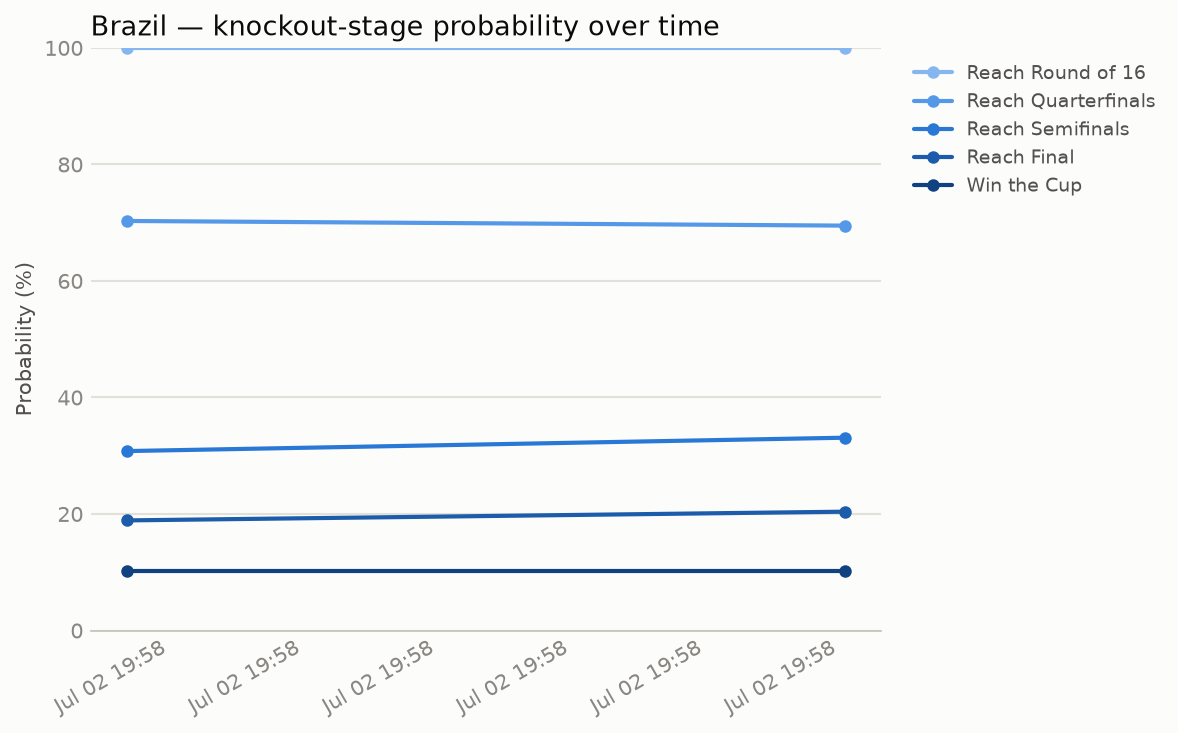
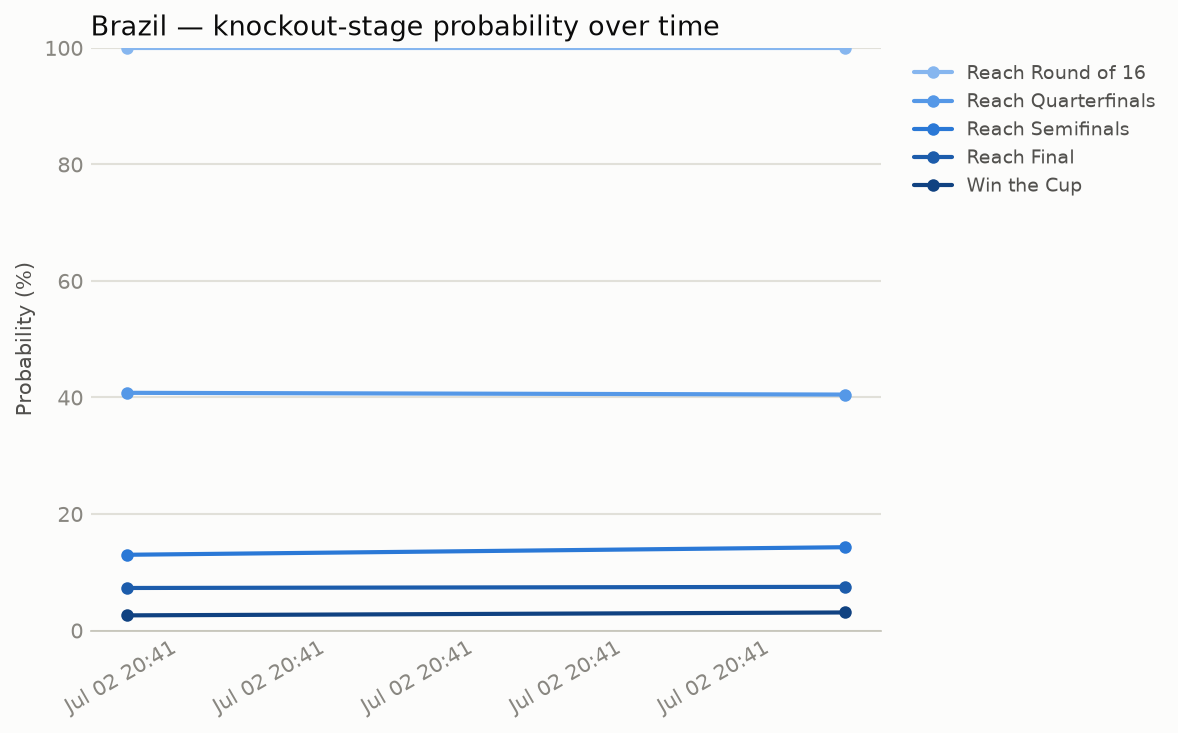
Fold 2026 World Cup qualifying matches into the rating fit
Fetches all six confederations' qualifiers from ESPN (same global team-id
namespace as the World Cup itself, so results join directly - no name
matching needed) and adds them to the Poisson attack/defense fit alongside
group-stage and knockout matches. Each match is now weighted by an
exponential recency decay (365-day half-life) rather than a flat
World-Cup-vs-qualifier split, so old qualifiers fade out gradually and
this tournament's own matches dominate as they accumulate.

This meaningfully reduces small-sample noise for teams with only a
handful of 2026 World Cup matches so far - e.g. Spain's attack rating
moves from +0.13 to +0.57 once ~2 years of qualifying form is counted,
much more in line with France's rating instead of trailing Mexico/Canada.

diff --git a/fifa_sim/espn_client.py b/fifa_sim/espn_client.py
@@ -1,7 +1,7 @@
 """Thin client around ESPN's public (unauthenticated) soccer JSON API.
 
 ESPN does not officially document this API, but it is the same endpoint
-that powers espn.com/soccer and requires no API key. We use it for three
+that powers espn.com/soccer and requires no API key. We use it for four
 things:
 
 1. Live/near-live scoreboard data (score, clock, period) for in-progress
@@ -13,17 +13,25 @@ things:
    occupying later slots are known, labeling the unresolved side
    "Round of 32 11 Winner" etc. We parse that text to build the bracket
    graph -- no hardcoded matchups anywhere in this codebase.
+4. 2026 World Cup *qualification* results, per confederation -- extra
+   history for the rating fit, especially valuable for teams that have
+   played few 2026 World Cup matches so far. ESPN uses the same global
+   team-id namespace across competitions, so a qualifier goal for team
+   "164" (Spain) joins directly onto its World Cup match rows.
 """
 from __future__ import annotations
 
+import http.client
 import json
 import time
 import urllib.error
 import urllib.request
+from concurrent.futures import ThreadPoolExecutor
 from dataclasses import dataclass, field
 from typing import Optional
 
-BASE = "https://site.api.espn.com/apis/site/v2/sports/soccer/fifa.world"
+SOCCER_BASE = "https://site.api.espn.com/apis/site/v2/sports/soccer"
+BASE = f"{SOCCER_BASE}/fifa.world"
 USER_AGENT = "Mozilla/5.0 (compatible; fifa26-knockout-model/0.1; +research use)"
 
 # FIFA World Cup 2026 calendar (fixed, published tournament schedule).
@@ -41,23 +49,49 @@ ROUND_ORDER = [
     "final",
 ]
 
+# One ESPN league slug per confederation's 2026 World Cup qualifying
+# competition. The scoreboard endpoint only returns matches within roughly a
+# one-year window per request, so each confederation is queried in yearly
+# chunks spanning its actual qualifying period (2023 through the March 2026
+# intercontinental play-offs).
+QUALIFIER_SLUGS = [
+    "fifa.worldq.uefa",
+    "fifa.worldq.conmebol",
+    "fifa.worldq.concacaf",
+    "fifa.worldq.caf",
+    "fifa.worldq.afc",
+    "fifa.worldq.ofc",
+]
+QUALIFIER_DATE_CHUNKS = [
+    "20230101-20231231",
+    "20240101-20241231",
+    "20250101-20251231",
+    "20260101-20260401",
+]
 
-def _get(url: str, timeout: float = 15.0, retries: int = 3) -> dict:
+
+def _get(url: str, timeout: float = 20.0, retries: int = 4) -> dict:
     req = urllib.request.Request(url, headers={"User-Agent": USER_AGENT})
     last_err = None
     for attempt in range(retries):
         try:
             with urllib.request.urlopen(req, timeout=timeout) as resp:
                 return json.loads(resp.read().decode("utf-8"))
-        except (urllib.error.URLError, TimeoutError, json.JSONDecodeError) as e:
+        except (
+            urllib.error.URLError,
+            TimeoutError,
+            json.JSONDecodeError,
+            http.client.HTTPException,
+            ConnectionError,
+        ) as e:
             last_err = e
             if attempt < retries - 1:
                 time.sleep(1.5 * (attempt + 1))
     raise RuntimeError(f"Failed to fetch {url}: {last_err}")
 
 
-def get_scoreboard(date_range: str) -> dict:
-    return _get(f"{BASE}/scoreboard?dates={date_range}")
+def get_scoreboard(date_range: str, base: str = BASE, limit: int = 500) -> dict:
+    return _get(f"{base}/scoreboard?dates={date_range}&limit={limit}")
 
 
 def get_all_teams() -> dict:
@@ -141,3 +175,33 @@ def fetch_knockout_events() -> list[RawEvent]:
     raw = get_scoreboard(KNOCKOUT_RANGE)
     events = parse_events(raw)
     return [e for e in events if e.round_slug in ROUND_ORDER]
+
+
+def fetch_qualifier_events() -> list[RawEvent]:
+    """All 2026 World Cup qualifying matches across every confederation.
+
+    Fetched concurrently (24 small requests: 6 confederations x 4 yearly
+    windows) and deduplicated by event id, since a match can appear in more
+    than one chunk near a year boundary.
+    """
+    jobs = [
+        (slug, chunk)
+        for slug in QUALIFIER_SLUGS
+        for chunk in QUALIFIER_DATE_CHUNKS
+    ]
+
+    def _fetch_one(job):
+        slug, chunk = job
+        base = f"{SOCCER_BASE}/{slug}"
+        try:
+            raw = get_scoreboard(chunk, base=base)
+        except RuntimeError:
+            return []
+        return parse_events(raw)
+
+    events_by_id: dict[int, RawEvent] = {}
+    with ThreadPoolExecutor(max_workers=4) as pool:
+        for events in pool.map(_fetch_one, jobs):
+            for e in events:
+                events_by_id[e.event_id] = e
+    return list(events_by_id.values())

diff --git a/fifa_sim/ratings.py b/fifa_sim/ratings.py
@@ -1,8 +1,9 @@
 """Fits a Maher/Dixon-Coles-style Poisson attack/defense rating for every
-team from the 2026 World Cup matches played so far (group stage + any
-completed knockout matches). This is the "estimate a model from up-to-date
-data" piece: everything here is derived from ESPN's own match results,
-re-fit every time the CLI runs, so ratings drift as new results come in.
+team from every 2026 World Cup *qualifying* match plus the 2026 World Cup
+matches played so far (group stage + any completed knockout matches). This
+is the "estimate a model from up-to-date data" piece: everything here is
+derived from ESPN's own match results, re-fit every time the CLI runs, so
+ratings drift as new results come in.
 
 Model
 -----
@@ -16,14 +17,26 @@ otherwise -- a small shared home-advantage term since every match in this
 tournament is played on their soil.
 
 Attack/defense parameters are ridge-shrunk toward 0 (i.e. toward
-league-average strength). This matters a lot here because most teams have
-only 3-6 matches of data at this point in the tournament, so unregularized
+league-average strength). This matters a lot early in the tournament, when
+a team might have only 3-6 World Cup matches of data, so unregularized
 per-team MLE would be extremely noisy (a team that wins 5-0 once would
-otherwise look like the best attack in the world).
+otherwise look like the best attack in the world). Qualifiers add a couple
+of years and dozens of extra matches per team, which is exactly the extra
+signal that makes the shrinkage bite less.
+
+Every match is also exponentially time-decayed by recency (`_recency_weight`)
+relative to today: a qualifier from early 2023 barely moves the needle, a
+qualifier from late 2025 counts for a good deal, and this tournament's own
+matches (days to weeks old) count almost fully. This lets qualifiers and
+World Cup matches share one likelihood without a second, harder-to-justify
+"qualifiers are worth X%" knob -- the discount is purely "how long ago",
+which also means the model naturally forgets stale qualifier form as the
+tournament goes on and its own matches pile up.
 """
 from __future__ import annotations
 
 from dataclasses import dataclass
+from datetime import datetime, timezone
 
 import numpy as np
 from scipy.optimize import minimize
@@ -32,6 +45,7 @@ from .espn_client import HOST_NATIONS
 
 RIDGE_LAMBDA = 2.0  # shrinkage strength on attack/defense terms
 HOST_RIDGE_LAMBDA = 4.0  # extra shrinkage on the single host-advantage term
+RECENCY_HALF_LIFE_DAYS = 365.0  # a match this many days old counts for half
 
 
 @dataclass
@@ -42,6 +56,13 @@ class MatchResult:
     away_name: str
     home_goals: int
     away_goals: int
+    date: str  # ISO 8601, e.g. "2025-03-21T19:00Z"
+
+
+def _recency_weight(date_str: str, as_of: datetime) -> float:
+    played = datetime.fromisoformat(date_str)
+    days_ago = max(0.0, (as_of - played).total_seconds() / 86400.0)
+    return 0.5 ** (days_ago / RECENCY_HALF_LIFE_DAYS)
 
 
 @dataclass
@@ -63,7 +84,8 @@ class TeamRatings:
         return float(np.exp(val))
 
 
-def fit_ratings(results: list[MatchResult]) -> TeamRatings:
+def fit_ratings(results: list[MatchResult], as_of: datetime | None = None) -> TeamRatings:
+    as_of = as_of or datetime.now(timezone.utc)
     team_ids = sorted({r.home_id for r in results} | {r.away_id for r in results})
     team_names = {}
     for r in results:
@@ -76,6 +98,7 @@ def fit_ratings(results: list[MatchResult]) -> TeamRatings:
     away_idx = np.array([idx[r.away_id] for r in results])
     home_goals = np.array([r.home_goals for r in results], dtype=float)
     away_goals = np.array([r.away_goals for r in results], dtype=float)
+    weights = np.array([_recency_weight(r.date, as_of) for r in results])
     home_is_host = np.array(
         [1.0 if team_names[r.home_id] in HOST_NATIONS else 0.0 for r in results]
     )
@@ -96,9 +119,10 @@ def fit_ratings(results: list[MatchResult]) -> TeamRatings:
         mu, host_boost, attack, defense = unpack(x)
         lam_home = np.exp(mu + attack[home_idx] - defense[away_idx] + host_boost * home_is_host)
         lam_away = np.exp(mu + attack[away_idx] - defense[home_idx] + host_boost * away_is_host)
-        # Poisson NLL up to a goals! constant (doesn't affect the optimum).
-        nll = np.sum(lam_home - home_goals * np.log(lam_home))
-        nll += np.sum(lam_away - away_goals * np.log(lam_away))
+        # Poisson NLL up to a goals! constant (doesn't affect the optimum),
+        # each observation down-weighted by how long ago it was played.
+        nll = np.sum(weights * (lam_home - home_goals * np.log(lam_home)))
+        nll += np.sum(weights * (lam_away - away_goals * np.log(lam_away)))
         nll += RIDGE_LAMBDA * (np.sum(attack**2) + np.sum(defense**2))
         nll += HOST_RIDGE_LAMBDA * host_boost**2
         return nll

diff --git a/fifa_sim/pipeline.py b/fifa_sim/pipeline.py
@@ -7,10 +7,15 @@ day) and every piece re-fetches fresh data.
 """
 from __future__ import annotations
 
+from concurrent.futures import ThreadPoolExecutor
 from dataclasses import dataclass
 
 from .bracket import Bracket, build_bracket
-from .espn_client import fetch_group_stage_events, fetch_knockout_events
+from .espn_client import (
+    fetch_group_stage_events,
+    fetch_knockout_events,
+    fetch_qualifier_events,
+)
 from .ratings import MatchResult, TeamRatings, fit_ratings
 
 
@@ -20,6 +25,7 @@ class Snapshot:
     ratings: TeamRatings
     n_group_matches: int
     n_knockout_matches_used: int
+    n_qualifier_matches: int
 
 
 def _completed_result(event) -> MatchResult | None:
@@ -36,19 +42,34 @@ def _completed_result(event) -> MatchResult | None:
         away_name=event.away.name,
         home_goals=event.home.score,
         away_goals=event.away.score,
+        date=event.date,
     )
 
 
 def build_snapshot() -> Snapshot:
-    group_events = fetch_group_stage_events()
-    knockout_events = fetch_knockout_events()
+    with ThreadPoolExecutor(max_workers=3) as pool:
+        group_future = pool.submit(fetch_group_stage_events)
+        knockout_future = pool.submit(fetch_knockout_events)
+        qualifier_future = pool.submit(fetch_qualifier_events)
+        group_events = group_future.result()
+        knockout_events = knockout_future.result()
+        qualifier_events = qualifier_future.result()
 
     results: list[MatchResult] = []
+
+    n_qualifier = 0
+    for e in qualifier_events:
+        r = _completed_result(e)
+        if r is not None:
+            results.append(r)
+            n_qualifier += 1
+
+    n_group = 0
     for e in group_events:
         r = _completed_result(e)
         if r is not None:
             results.append(r)
-    n_group = len(results)
+            n_group += 1
 
     n_knockout_used = 0
     for e in knockout_events:
@@ -65,4 +86,5 @@ def build_snapshot() -> Snapshot:
         ratings=ratings,
         n_group_matches=n_group,
         n_knockout_matches_used=n_knockout_used,
+        n_qualifier_matches=n_qualifier,
     )

diff --git a/fifa_sim/cli.py b/fifa_sim/cli.py
@@ -73,8 +73,9 @@ def _print_team_report(snapshot: Snapshot, result: SimulationResult, team_id: st
     print(_describe_status(m, side, other))
     print(f"\nModel: attack={snapshot.ratings.attack.get(team_id, 0.0):+.2f}, "
           f"defense={snapshot.ratings.defense.get(team_id, 0.0):+.2f} "
-          f"(fit on {snapshot.n_group_matches} group + {snapshot.n_knockout_matches_used} "
-          f"completed knockout matches)")
+          f"(fit on {snapshot.n_qualifier_matches} qualifiers + {snapshot.n_group_matches} "
+          f"group + {snapshot.n_knockout_matches_used} completed knockout matches, "
+          f"recency-weighted)")
 
     reach = {r: result.prob_reach(team_id, r) for r in PROGRESS_ROUNDS}
     champion = result.prob_champion(team_id)

diff --git a/README.md b/README.md
@@ -14,8 +14,13 @@ python -m fifa_sim bracket
 ## What it does
 
 1. **Pulls live data from ESPN's public soccer API** (no key required):
-   group-stage results, every completed/live/upcoming knockout fixture, and
-   the current score + game clock for matches in progress.
+   2026 World Cup qualifying results for all six confederations (UEFA,
+   CONMEBOL, CONCACAF, CAF, AFC, OFC), group-stage results, every
+   completed/live/upcoming knockout fixture, and the current score + game
+   clock for matches in progress. ESPN uses one global team-id namespace
+   across all of these competitions, so a qualifier result for team "164"
+   (Spain) joins directly onto its World Cup rows -- no name-matching
+   needed.
 2. **Reconstructs the bracket graph from the data itself** — not
    hardcoded. ESPN pre-creates a fixture for every bracket slot before the
    occupants are known (e.g. a Round-of-16 game shows `"Round of 32 11
@@ -26,12 +31,17 @@ python -m fifa_sim bracket
    reflects whatever FIFA/ESPN currently has scheduled, including if a game
    goes to a replay slot or kickoff times shift.
 3. **Fits a Poisson attack/defense rating per team** (`fifa_sim/ratings.py`)
-   from every group-stage and completed-knockout match played so far —
-   a ridge-regularized Maher/Dixon-Coles-style model:
+   from every qualifying, group-stage, and completed-knockout match played
+   so far — a ridge-regularized Maher/Dixon-Coles-style model:
    `lambda_home = exp(mu + attack_home - defense_away + host_boost)`.
-   Ridge shrinkage matters a lot early in the tournament, when most teams
-   have only 3-6 games of data — without it, a single 5-0 win would make a
-   team look unrealistically dominant.
+   Every match is exponentially down-weighted by how long ago it was played
+   (365-day half-life), so a 2023 qualifier barely counts, a late-2025
+   qualifier counts for a good deal, and this tournament's own matches count
+   almost fully — one continuous discount instead of a separate, harder-to-
+   justify "qualifiers are worth X%" knob. Ridge shrinkage on top of that
+   still matters early in the tournament, when a team might have only 3-6
+   *World Cup* games — without it, a single 5-0 win would make a team look
+   unrealistically dominant.
 4. **Simulates each remaining match** with Poisson-distributed goals for
    normal time, then extra time (same per-minute intensity) if still level,
    then a 50/50 penalty shootout if still level after that — matching actual
@@ -54,12 +64,12 @@ python -m fifa_sim bracket
 
 ## Design choices & assumptions (read before trusting the numbers)
 
-- **No pre-tournament priors.** Ratings are fit purely from 2026 World Cup
-  matches (group stage + knockout so far) via ridge-shrunk MLE — deliberately
-  self-contained (one data source, ESPN, for both fixtures and history) rather
-  than depending on an external, hard-to-verify Elo/ranking feed. Early in the
-  bracket this means ratings are noisier than a model blended with
-  preseason strength would be.
+- **No external Elo/ranking prior.** Ratings are fit purely from ESPN match
+  data (qualifiers + 2026 World Cup) via recency-weighted, ridge-shrunk MLE —
+  deliberately self-contained (one data source for both fixtures and
+  history) rather than depending on a separate, hard-to-verify ranking feed.
+  Qualifiers substantially reduce (but don't eliminate) the small-sample
+  noise for teams early in the World Cup bracket.
 - **Host advantage**: a single shared boost term for the USA/Mexico/Canada
   (this tournament's three co-hosts) is fit from the data rather than
   assumed.